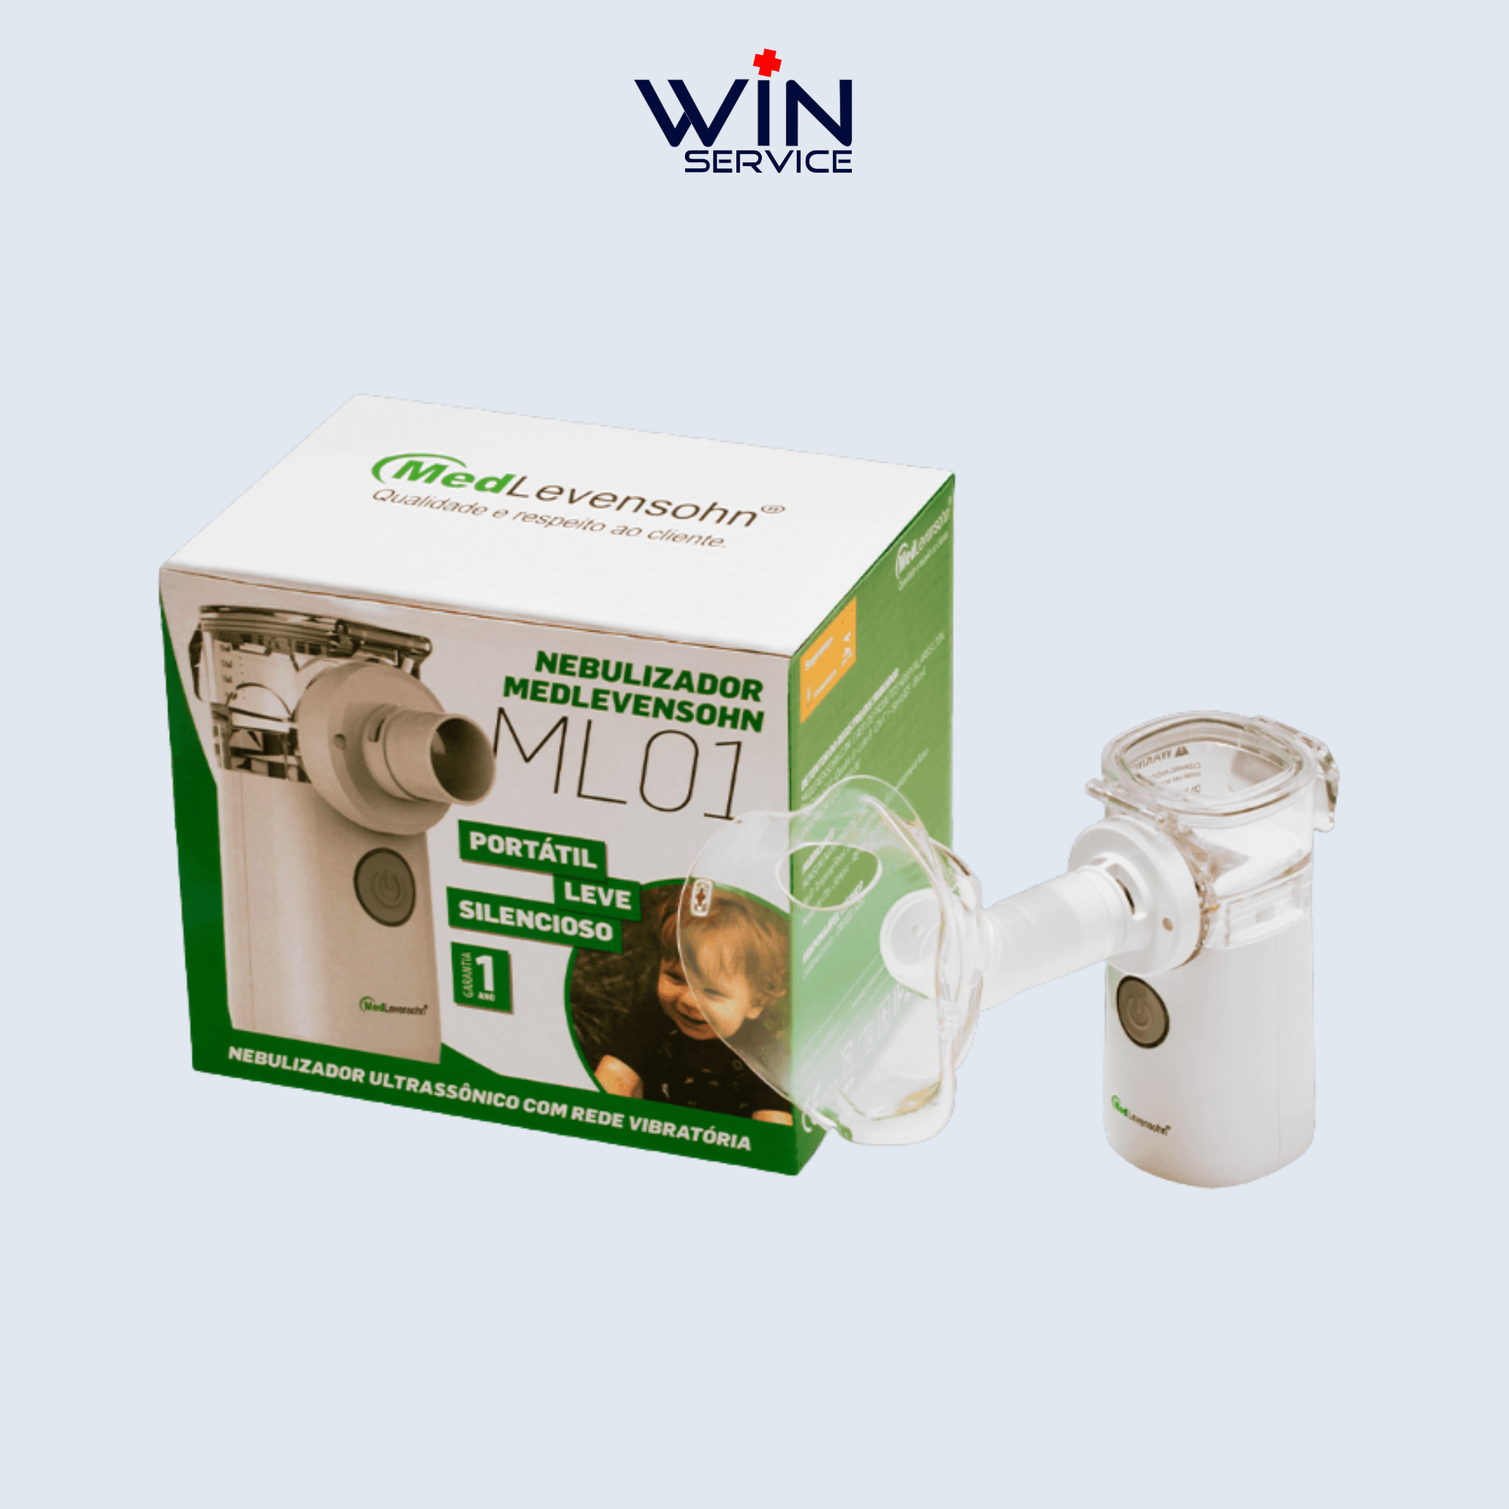
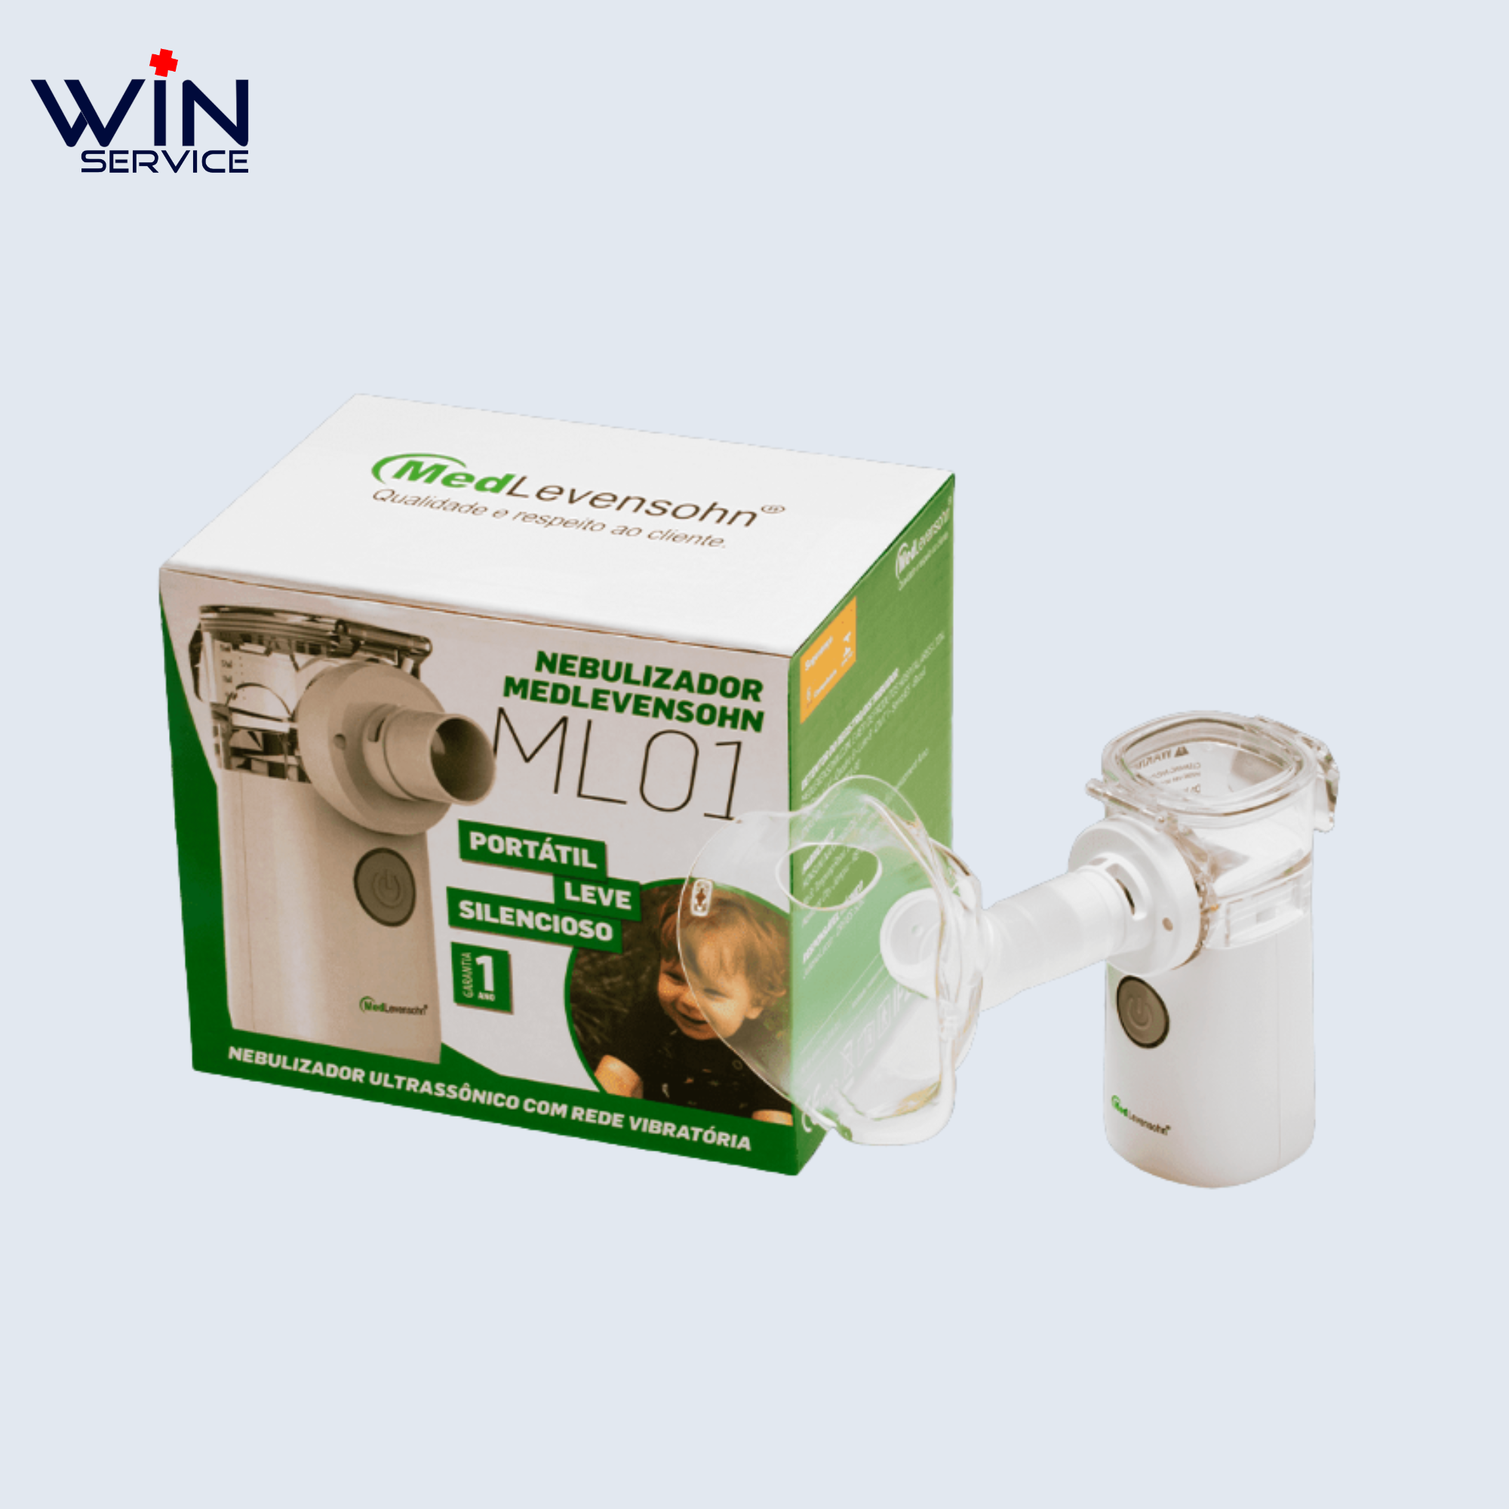
ajustes_logotipo_favicon_rodape

Changed region(s): [[0.403, 0.031, 0.589, 0.124], [0.031, 0.031, 0.186, 0.124]]

diff --git a/produtos.html b/produtos.html
@@ -2,6 +2,7 @@
 <html lang="pt-BR">
 <head>
     <meta charset="UTF-8">
+    <link rel="icon" type="image/png" href="imagens/favicon.png">
     <meta name="viewport" content="width=device-width, initial-scale=1.0">
     <meta name="description" content="Exclusividade em venda e locação de equipamentos Toth Lifecare no Rio de Janeiro. DEA EasyShock, Monitor SmartCheck, Ultrassom Portátil, Toth Watch. Esfigmomanômetros MedLevensohn.">
     <meta name="keywords" content="Desfibrilador, DEA, Aparelho de pressão, Esfigmomanômetro, DEA EasyShock, Desfibrilador Externo Automático, Desfibrilador Rio de Janeiro, DEA Rio de Janeiro, Tothlifecare, Toth, EasyShock Toth, EasyShock Tothlifecare, DEA Tothlifecare, DEA Toth, Desfibrilador Toth, Monitor SmartCheck, Monitor de triagem, Ultrassom setorial portátil, Toth Watch, Smartwatch médico, MedLevensohn, equipamentos médicos, venda, locação, Rio de Janeiro">
@@ -148,13 +149,13 @@
                 "position": 6,
                 "item": {
                     "@type": "Product",
-                    "name": "Medidor Luna Duo Wellion MedLevensohn",
-                    "description": "Sistema 2 em 1 para medição de glicemia e colesterol. Controle metabólico completo Wellion.",
+                    "name": "On Call® Plus II Monitor de Glicemia",
+                    "description": "Monitor de glicemia rápido e preciso. Resultado em 5 segundos com apenas 0.5 μL de sangue. Conforme ISO 15197:2013.",
                     "brand": {
                         "@type": "Brand",
-                        "name": "MedLevensohn"
+                        "name": "On Call"
                     },
-                    "category": "Monitor de Glicemia e Colesterol",
+                    "category": "Monitor de Glicemia",
                     "offers": {
                         "@type": "Offer",
                         "availability": "https://schema.org/InStock",
@@ -379,7 +380,10 @@
                             <img src="imagens/dea222.png" alt="DEA EasyShock" width="300" height="256" loading="lazy" decoding="async" class="max-h-full object-contain">
                         </div>
                         <div class="p-5 flex-1 flex flex-col">
-                            <h3 class="text-lg font-bold text-blue-900 mb-2">DEA EasyShock</h3>
+                            <div class="flex items-center gap-2 mb-2">
+                                <h3 class="text-lg font-bold text-blue-900">DEA EasyShock</h3>
+                                <span class="bg-red-100 text-red-600 text-xs px-2 py-0.5 rounded-sm">Salva Vidas</span>
+                            </div>
                             <p class="text-slate-600 text-sm mb-3 flex-1">Desfibrilador portátil de fácil uso para PCR. Interface intuitiva para emergências.</p>
                             <div class="flex flex-wrap gap-1.5">
                                 <span class="bg-slate-100 text-slate-600 text-xs px-2 py-1 rounded-sm">Linha LCD</span>
@@ -516,21 +520,21 @@
                         </div>
                     </div>
 
-                    <!-- Card: Medidor Luna Duo -->
-                    <div id="luna-duo" class="bg-white border border-slate-200 rounded-md overflow-hidden flex flex-col">
+                    <!-- Card: On Call Plus II -->
+                    <div id="oncall-plus" class="bg-white border border-slate-200 rounded-md overflow-hidden flex flex-col">
                         <div class="bg-white p-6 flex items-center justify-center h-64">
-                            <img src="imagens/med3.png" alt="Medidor Luna Duo" width="300" height="256" loading="lazy" decoding="async" class="max-h-full object-contain">
+                            <img src="imagens/medidor de glicemia.png" alt="On Call Plus II Monitor de Glicemia" width="300" height="256" loading="lazy" decoding="async" class="max-h-full object-contain">
                         </div>
                         <div class="p-5 flex-1 flex flex-col">
                             <div class="flex items-center gap-2 mb-2">
-                                <h3 class="text-lg font-bold text-blue-900">Medidor Luna Duo</h3>
-                                <span class="bg-emerald-100 text-emerald-700 text-xs px-2 py-0.5 rounded-sm">2 em 1</span>
+                                <h3 class="text-lg font-bold text-blue-900">On Call® Plus II</h3>
+                                <span class="bg-emerald-100 text-emerald-700 text-xs px-2 py-0.5 rounded-sm">ISO 15197</span>
                             </div>
-                            <p class="text-slate-600 text-sm mb-3 flex-1">Sistema 2 em 1 para glicemia e colesterol. Controle metabólico completo.</p>
+                            <p class="text-slate-600 text-sm mb-3 flex-1">Monitor de glicemia rápido e preciso. Resultado em 5 segundos com apenas 0.5 μL de sangue.</p>
                             <div class="flex flex-wrap gap-1.5">
-                                <span class="bg-slate-100 text-slate-600 text-xs px-2 py-1 rounded-sm">Glicemia</span>
-                                <span class="bg-slate-100 text-slate-600 text-xs px-2 py-1 rounded-sm">Colesterol</span>
-                                <span class="bg-slate-100 text-slate-600 text-xs px-2 py-1 rounded-sm">Wellion</span>
+                                <span class="bg-slate-100 text-slate-600 text-xs px-2 py-1 rounded-sm">5 segundos</span>
+                                <span class="bg-slate-100 text-slate-600 text-xs px-2 py-1 rounded-sm">USB</span>
+                                <span class="bg-slate-100 text-slate-600 text-xs px-2 py-1 rounded-sm">300 memórias</span>
                             </div>
                         </div>
                     </div>
@@ -802,6 +806,12 @@
                                 <path d="M12 2.163c3.204 0 3.584.012 4.85.07 3.252.148 4.771 1.691 4.919 4.919.058 1.265.069 1.645.069 4.849 0 3.205-.012 3.584-.069 4.849-.149 3.225-1.664 4.771-4.919 4.919-1.266.058-1.644.07-4.85.07-3.204 0-3.584-.012-4.849-.07-3.26-.149-4.771-1.699-4.919-4.92-.058-1.265-.07-1.644-.07-4.849 0-3.204.013-3.583.07-4.849.149-3.227 1.664-4.771 4.919-4.919 1.266-.057 1.645-.069 4.849-.069zm0-2.163c-3.259 0-3.667.014-4.947.072-4.358.2-6.78 2.618-6.98 6.98-.059 1.281-.073 1.689-.073 4.948 0 3.259.014 3.668.072 4.948.2 4.358 2.618 6.78 6.98 6.98 1.281.058 1.689.072 4.948.072 3.259 0 3.668-.014 4.948-.072 4.354-.2 6.782-2.618 6.979-6.98.059-1.28.073-1.689.073-4.948 0-3.259-.014-3.667-.072-4.947-.196-4.354-2.617-6.78-6.979-6.98-1.281-.059-1.69-.073-4.949-.073zm0 5.838c-3.403 0-6.162 2.759-6.162 6.162s2.759 6.163 6.162 6.163 6.162-2.759 6.162-6.163c0-3.403-2.759-6.162-6.162-6.162zm0 10.162c-2.209 0-4-1.79-4-4 0-2.209 1.791-4 4-4s4 1.791 4 4c0 2.21-1.791 4-4 4zm6.406-11.845c-.796 0-1.441.645-1.441 1.44s.645 1.44 1.441 1.44c.795 0 1.439-.645 1.439-1.44s-.644-1.44-1.439-1.44z"/>
                             </svg>
                             <a href="https://instagram.com/winservicerj" target="_blank" class="hover:text-white transition-colors">@winservicerj</a>
+                        </li>
+                        <li class="flex items-center justify-center sm:justify-start gap-2">
+                            <svg class="w-4 h-4 text-emerald-500 flex-shrink-0" fill="none" stroke="currentColor" viewBox="0 0 24 24">
+                                <path stroke-linecap="round" stroke-linejoin="round" stroke-width="2" d="M3 8l7.89 5.26a2 2 0 002.22 0L21 8M5 19h14a2 2 0 002-2V7a2 2 0 00-2-2H5a2 2 0 00-2 2v10a2 2 0 002 2z"/>
+                            </svg>
+                            <a href="mailto:suporte@winservicerj.com.br" class="hover:text-white transition-colors">suporte@winservicerj.com.br</a>
                         </li>
                     </ul>
                 </div>

diff --git a/servicos.html b/servicos.html
@@ -2,6 +2,7 @@
 <html lang="pt-BR">
 <head>
     <meta charset="UTF-8">
+    <link rel="icon" type="image/png" href="imagens/favicon.png">
     <meta name="viewport" content="width=device-width, initial-scale=1.0">
     <meta name="description" content="Assistência técnica EXCLUSIVA Toth Lifecare e MedLevensohn no RJ. Calibração de DEA EasyShock, Desfibrilador, Ultrassom Setorial Portátil, Monitor Smart Check, Bomba de Infusão, Cardioversor, Esfigmomanômetro Microlife.">
     <meta name="keywords" content="Calibração, Desfibrilador, DEA, Aparelho de pressão, Esfigmomanômetro, Calibração Rio de Janeiro, Calibração RJ, Desfibrilador Rio de Janeiro, DEA Rio de Janeiro, Desfibrilador Externo Automático, Tothlifecare, Toth, EasyShock, EasyShock Toth, EasyShock Tothlifecare, DEA Tothlifecare, DEA Toth, Desfibrilador Toth, Desfibrilador Tothlifecare, Ultrassom setorial portátil, Monitor de triagem, Smart Check, Toth Watch, Calibração DEA, Calibração DEA tothlifecare, Calibração EasyShock, Calibração Monitor de triagem, Calibração Monitor multiparamétrico, Calibração cardioversor, Calibração desfibrilador, Calibração cardioversor bifásico, Calibração aparelho de pressão, Calibração esfigmomanômetro, Calibração esfigmomanômetro microlife, Calibração esfigmomanômetro medlevensohn, Calibração bomba de infusão, Calibração bomba de seringa, MedLevensohn, Microlife">
@@ -293,6 +294,16 @@
                 <p class="text-slate-600 text-lg max-w-3xl mx-auto">
                     Nossa equipe de técnicos é treinada e certificada pelos fabricantes. Somos <strong class="text-slate-800">representantes exclusivos Toth Lifecare</strong> e <strong class="text-slate-800">assistência técnica autorizada MedLevensohn</strong> no Rio de Janeiro.
                 </p>
+
+                <!-- Logos dos Parceiros -->
+                <div class="flex items-center justify-center gap-3 mt-8">
+                    <div class="py-2 px-4 flex items-center justify-center h-10 w-28">
+                        <img src="imagens/TOTH LOGO HORIZONTAL - AZUL E PRETO (7).png" alt="Toth Lifecare" loading="lazy" decoding="async" class="max-h-6 max-w-full object-contain">
+                    </div>
+                    <div class="py-2 px-4 flex items-center justify-center h-10 w-28 overflow-hidden">
+                        <img src="imagens/LOGO%20MEDLEVENSOHN.png" alt="MedLevensohn" loading="lazy" decoding="async" class="max-w-full object-contain scale-[1.8]">
+                    </div>
+                </div>
             </div>
 
             <!-- Equipamentos Atendidos -->
@@ -814,6 +825,12 @@
                                 <path d="M12 2.163c3.204 0 3.584.012 4.85.07 3.252.148 4.771 1.691 4.919 4.919.058 1.265.069 1.645.069 4.849 0 3.205-.012 3.584-.069 4.849-.149 3.225-1.664 4.771-4.919 4.919-1.266.058-1.644.07-4.85.07-3.204 0-3.584-.012-4.849-.07-3.26-.149-4.771-1.699-4.919-4.92-.058-1.265-.07-1.644-.07-4.849 0-3.204.013-3.583.07-4.849.149-3.227 1.664-4.771 4.919-4.919 1.266-.057 1.645-.069 4.849-.069zm0-2.163c-3.259 0-3.667.014-4.947.072-4.358.2-6.78 2.618-6.98 6.98-.059 1.281-.073 1.689-.073 4.948 0 3.259.014 3.668.072 4.948.2 4.358 2.618 6.78 6.98 6.98 1.281.058 1.689.072 4.948.072 3.259 0 3.668-.014 4.948-.072 4.354-.2 6.782-2.618 6.979-6.98.059-1.28.073-1.689.073-4.948 0-3.259-.014-3.667-.072-4.947-.196-4.354-2.617-6.78-6.979-6.98-1.281-.059-1.69-.073-4.949-.073zm0 5.838c-3.403 0-6.162 2.759-6.162 6.162s2.759 6.163 6.162 6.163 6.162-2.759 6.162-6.163c0-3.403-2.759-6.162-6.162-6.162zm0 10.162c-2.209 0-4-1.79-4-4 0-2.209 1.791-4 4-4s4 1.791 4 4c0 2.21-1.791 4-4 4zm6.406-11.845c-.796 0-1.441.645-1.441 1.44s.645 1.44 1.441 1.44c.795 0 1.439-.645 1.439-1.44s-.644-1.44-1.439-1.44z"/>
                             </svg>
                             <a href="https://instagram.com/winservicerj" target="_blank" class="hover:text-white transition-colors">@winservicerj</a>
+                        </li>
+                        <li class="flex items-center justify-center sm:justify-start gap-2">
+                            <svg class="w-4 h-4 text-emerald-500 flex-shrink-0" fill="none" stroke="currentColor" viewBox="0 0 24 24">
+                                <path stroke-linecap="round" stroke-linejoin="round" stroke-width="2" d="M3 8l7.89 5.26a2 2 0 002.22 0L21 8M5 19h14a2 2 0 002-2V7a2 2 0 00-2-2H5a2 2 0 00-2 2v10a2 2 0 002 2z"/>
+                            </svg>
+                            <a href="mailto:suporte@winservicerj.com.br" class="hover:text-white transition-colors">suporte@winservicerj.com.br</a>
                         </li>
                     </ul>
                 </div>

diff --git a/index.html b/index.html
@@ -2,6 +2,7 @@
 <html lang="pt-BR">
 <head>
     <meta charset="UTF-8">
+    <link rel="icon" type="image/png" href="imagens/favicon.png">
     <meta name="viewport" content="width=device-width, initial-scale=1.0">
     <meta name="description" content="Win Service - Exclusividade em assistência técnica, locação e venda de aparelhos Toth Lifecare no Rio de Janeiro. Calibração de DEA, desfibriladores, bombas de infusão. Assistência técnica autorizada MedLevensohn.">
     <meta name="keywords" content="Desfibrilador, DEA, Aparelho de pressão, Esfigmomanômetro, Calibração, Desfibrilador Rio de Janeiro, DEA Rio de Janeiro, Calibração RJ, assistência técnica equipamentos médicos, manutenção desfibrilador, calibração equipamentos hospitalares, Desfibrilador Externo Automático, Tothlifecare, Toth, EasyShock, EasyShock Toth, EasyShock Tothlifecare, DEA Tothlifecare, DEA Toth, Desfibrilador Toth, Desfibrilador Tothlifecare, Calibração DEA, Calibração desfibrilador, Calibração bomba de infusão, Calibração cardioversor, Toth Lifecare, MedLevensohn">
@@ -598,9 +599,9 @@
                                     <p class="text-slate-500 text-xs uppercase tracking-wider text-center mt-2">Assistência Técnica Autorizada</p>
                                 </div>
                                 <div class="carousel-slide w-full flex-shrink-0 flex flex-col items-center justify-center">
-                                    <img src="imagens/WhatsApp Image 2026-02-11 at 10.43.32 (1).jpeg" alt="Equipe Especializada - Win Service"
+                                    <img src="imagens/WhatsApp Image 2026-03-02 at 16.48.47.jpeg" alt="Equipe Especializada - Win Service"
                                          width="600" height="400" loading="lazy" decoding="async"
-                                         class="w-full h-64 sm:h-72 object-cover object-center rounded-md">
+                                         class="w-full h-64 sm:h-72 object-cover object-top rounded-md">
                                     <p class="text-slate-500 text-xs uppercase tracking-wider text-center mt-2">Equipe Especializada</p>
                                 </div>
                             </div>
@@ -844,6 +845,12 @@
                                 <path d="M12 2.163c3.204 0 3.584.012 4.85.07 3.252.148 4.771 1.691 4.919 4.919.058 1.265.069 1.645.069 4.849 0 3.205-.012 3.584-.069 4.849-.149 3.225-1.664 4.771-4.919 4.919-1.266.058-1.644.07-4.85.07-3.204 0-3.584-.012-4.849-.07-3.26-.149-4.771-1.699-4.919-4.92-.058-1.265-.07-1.644-.07-4.849 0-3.204.013-3.583.07-4.849.149-3.227 1.664-4.771 4.919-4.919 1.266-.057 1.645-.069 4.849-.069zm0-2.163c-3.259 0-3.667.014-4.947.072-4.358.2-6.78 2.618-6.98 6.98-.059 1.281-.073 1.689-.073 4.948 0 3.259.014 3.668.072 4.948.2 4.358 2.618 6.78 6.98 6.98 1.281.058 1.689.072 4.948.072 3.259 0 3.668-.014 4.948-.072 4.354-.2 6.782-2.618 6.979-6.98.059-1.28.073-1.689.073-4.948 0-3.259-.014-3.667-.072-4.947-.196-4.354-2.617-6.78-6.979-6.98-1.281-.059-1.69-.073-4.949-.073zm0 5.838c-3.403 0-6.162 2.759-6.162 6.162s2.759 6.163 6.162 6.163 6.162-2.759 6.162-6.163c0-3.403-2.759-6.162-6.162-6.162zm0 10.162c-2.209 0-4-1.79-4-4 0-2.209 1.791-4 4-4s4 1.791 4 4c0 2.21-1.791 4-4 4zm6.406-11.845c-.796 0-1.441.645-1.441 1.44s.645 1.44 1.441 1.44c.795 0 1.439-.645 1.439-1.44s-.644-1.44-1.439-1.44z"/>
                             </svg>
                             <a href="https://instagram.com/winservicerj" target="_blank" class="hover:text-white transition-colors">@winservicerj</a>
+                        </li>
+                        <li class="flex items-center justify-center sm:justify-start gap-2">
+                            <svg class="w-4 h-4 text-emerald-500 flex-shrink-0" fill="none" stroke="currentColor" viewBox="0 0 24 24">
+                                <path stroke-linecap="round" stroke-linejoin="round" stroke-width="2" d="M3 8l7.89 5.26a2 2 0 002.22 0L21 8M5 19h14a2 2 0 002-2V7a2 2 0 00-2-2H5a2 2 0 00-2 2v10a2 2 0 002 2z"/>
+                            </svg>
+                            <a href="mailto:suporte@winservicerj.com.br" class="hover:text-white transition-colors">suporte@winservicerj.com.br</a>
                         </li>
                     </ul>
                 </div>

diff --git a/contato.html b/contato.html
@@ -2,6 +2,7 @@
 <html lang="pt-BR">
 <head>
     <meta charset="UTF-8">
+    <link rel="icon" type="image/png" href="imagens/favicon.png">
     <meta name="viewport" content="width=device-width, initial-scale=1.0">
     <meta name="description" content="Solicite assistência técnica em equipamentos médicos com a Win Service no Rio de Janeiro. Calibração, manutenção, teste de segurança elétrica e venda de equipamentos.">
     <meta name="keywords" content="Calibração, Desfibrilador, DEA, Aparelho de pressão, Esfigmomanômetro, assistência técnica equipamentos médicos, Calibração Rio de Janeiro, Calibração RJ, calibração DEA, Calibração desfibrilador, Calibração DEA tothlifecare, Calibração EasyShock, Calibração Monitor de triagem, Calibração cardioversor, Calibração aparelho de pressão, Calibração esfigmomanômetro, Calibração esfigmomanômetro microlife, Calibração esfigmomanômetro medlevensohn, Calibração bomba de infusão, Calibração bomba de seringa, manutenção equipamentos médicos, teste segurança elétrica IEC 60601, Win Service RJ">
@@ -370,6 +371,12 @@
                                 <path d="M12 2.163c3.204 0 3.584.012 4.85.07 3.252.148 4.771 1.691 4.919 4.919.058 1.265.069 1.645.069 4.849 0 3.205-.012 3.584-.069 4.849-.149 3.225-1.664 4.771-4.919 4.919-1.266.058-1.644.07-4.85.07-3.204 0-3.584-.012-4.849-.07-3.26-.149-4.771-1.699-4.919-4.92-.058-1.265-.07-1.644-.07-4.849 0-3.204.013-3.583.07-4.849.149-3.227 1.664-4.771 4.919-4.919 1.266-.057 1.645-.069 4.849-.069zm0-2.163c-3.259 0-3.667.014-4.947.072-4.358.2-6.78 2.618-6.98 6.98-.059 1.281-.073 1.689-.073 4.948 0 3.259.014 3.668.072 4.948.2 4.358 2.618 6.78 6.98 6.98 1.281.058 1.689.072 4.948.072 3.259 0 3.668-.014 4.948-.072 4.354-.2 6.782-2.618 6.979-6.98.059-1.28.073-1.689.073-4.948 0-3.259-.014-3.667-.072-4.947-.196-4.354-2.617-6.78-6.979-6.98-1.281-.059-1.69-.073-4.949-.073zm0 5.838c-3.403 0-6.162 2.759-6.162 6.162s2.759 6.163 6.162 6.163 6.162-2.759 6.162-6.163c0-3.403-2.759-6.162-6.162-6.162zm0 10.162c-2.209 0-4-1.79-4-4 0-2.209 1.791-4 4-4s4 1.791 4 4c0 2.21-1.791 4-4 4zm6.406-11.845c-.796 0-1.441.645-1.441 1.44s.645 1.44 1.441 1.44c.795 0 1.439-.645 1.439-1.44s-.644-1.44-1.439-1.44z"/>
                             </svg>
                             <a href="https://instagram.com/winservicerj" target="_blank" class="hover:text-white transition-colors">@winservicerj</a>
+                        </li>
+                        <li class="flex items-center justify-center sm:justify-start gap-2">
+                            <svg class="w-4 h-4 text-emerald-500 flex-shrink-0" fill="none" stroke="currentColor" viewBox="0 0 24 24">
+                                <path stroke-linecap="round" stroke-linejoin="round" stroke-width="2" d="M3 8l7.89 5.26a2 2 0 002.22 0L21 8M5 19h14a2 2 0 002-2V7a2 2 0 00-2-2H5a2 2 0 00-2 2v10a2 2 0 002 2z"/>
+                            </svg>
+                            <a href="mailto:suporte@winservicerj.com.br" class="hover:text-white transition-colors">suporte@winservicerj.com.br</a>
                         </li>
                     </ul>
                 </div>

diff --git a/identidade-visual-winservice.html b/identidade-visual-winservice.html
@@ -2,6 +2,7 @@
 <html lang="pt-BR">
 <head>
     <meta charset="UTF-8">
+    <link rel="icon" type="image/png" href="imagens/favicon.png">
     <meta name="viewport" content="width=device-width, initial-scale=1.0">
     <title>Identidade Visual do Site - Win Service</title>
     <link href="https://fonts.googleapis.com/css2?family=Lato:wght@400;700&family=Lora:wght@500;600;700&display=swap" rel="stylesheet">
